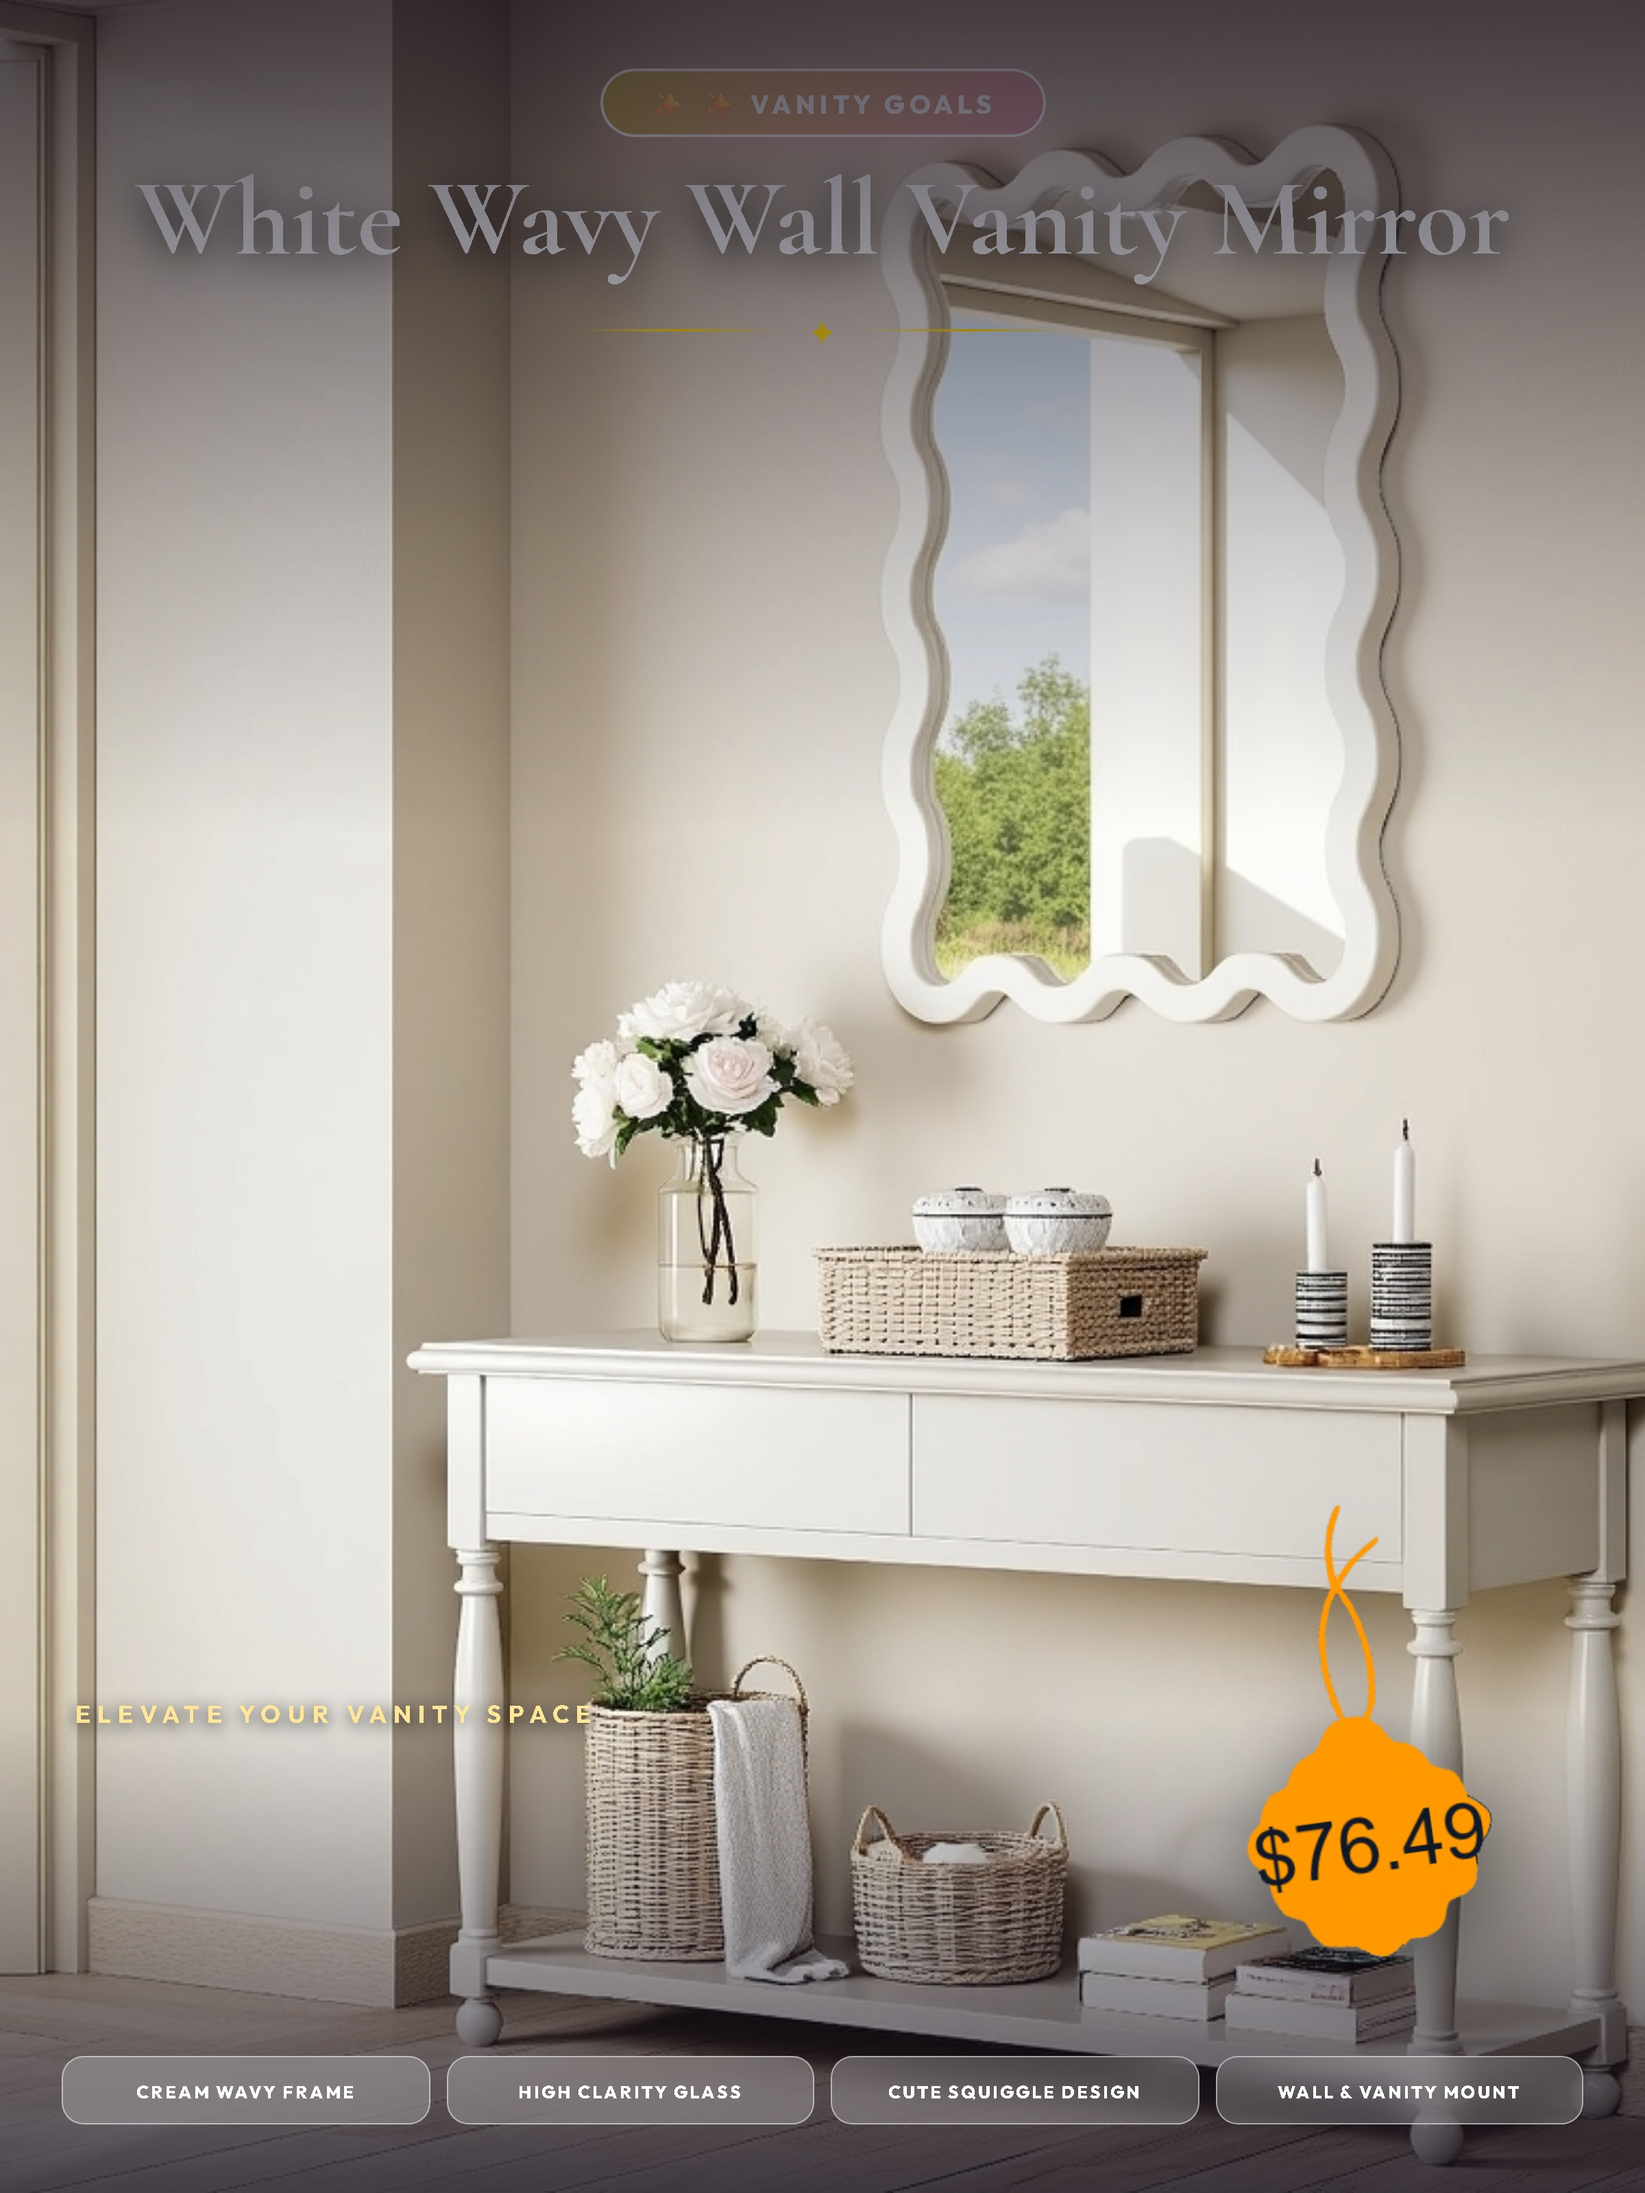
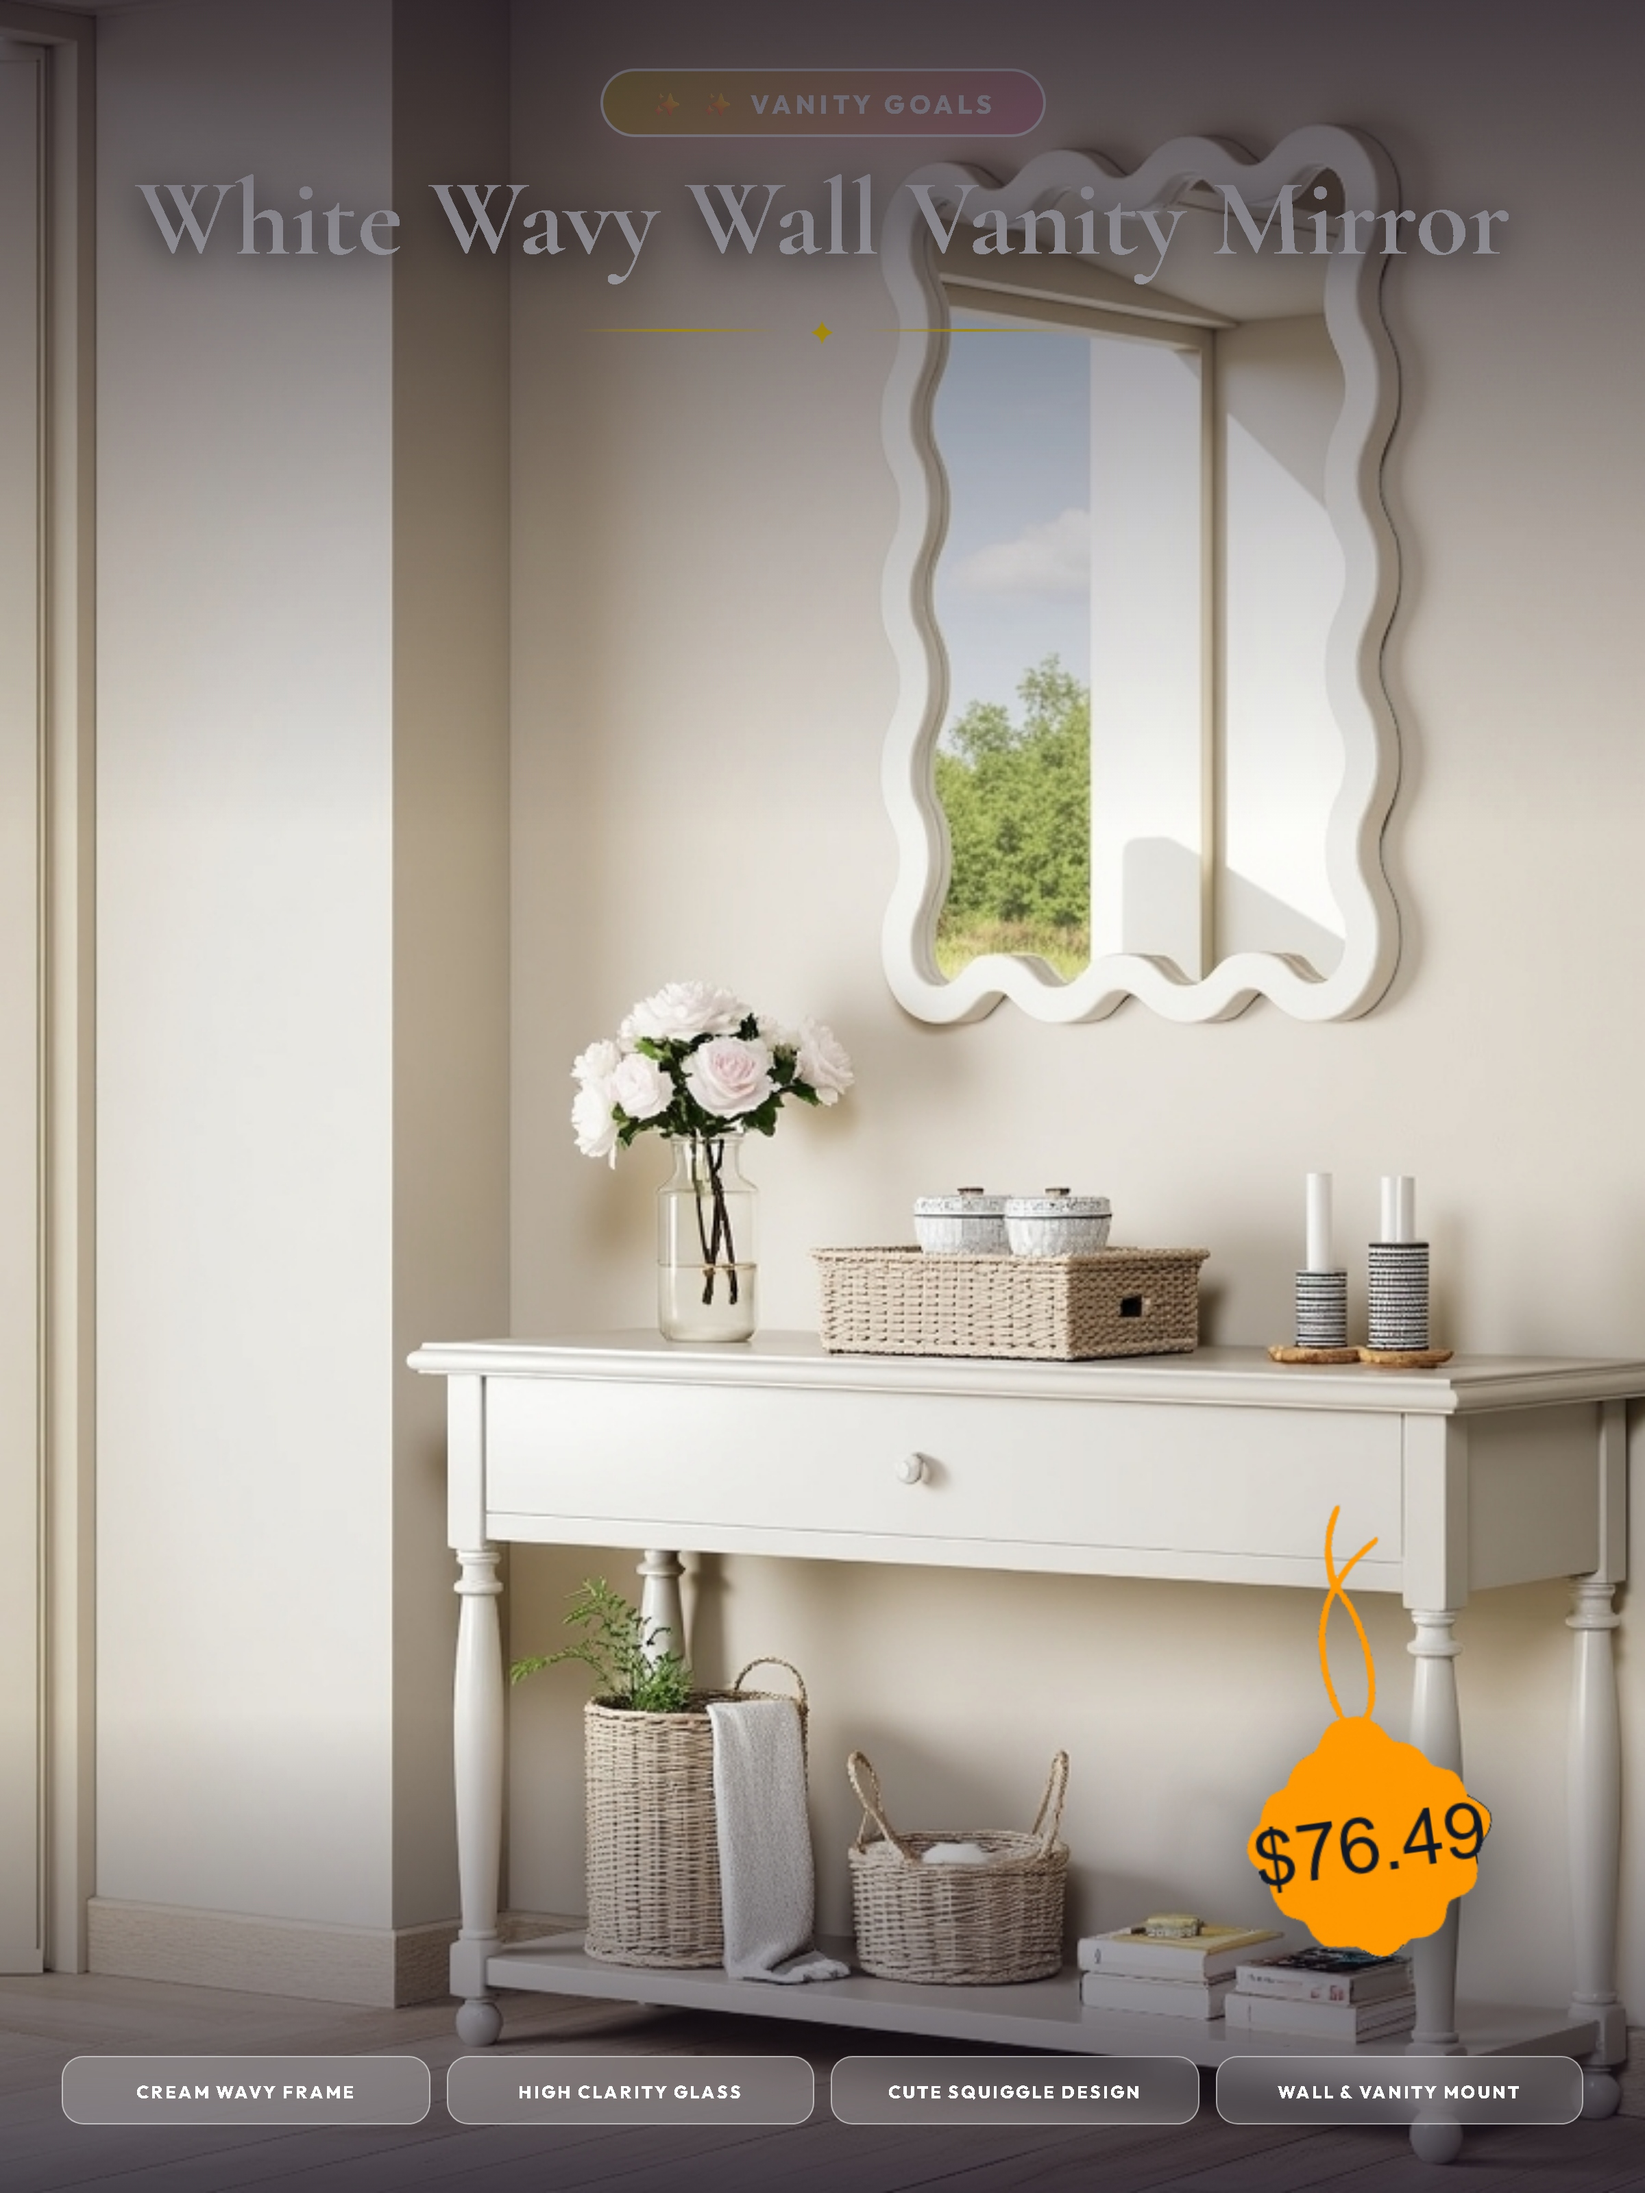
Remove subtitle text ELEVATE YOUR VANITY SPACE for B0FXLYXM32 White Wavy Mirror

diff --git a/index.html b/index.html
@@ -549,7 +549,7 @@
                 <div class="card-img-container">
                     <div class="card-price-tag">$76.49</div>
                     <div class="card-rating">★ 4.8</div>
-                    <img src="./focus_product_B0FXLYXM32_hook.jpg?v=ai_generated_room_v10" alt="White Wavy Wall Vanity Mirror">
+                    <img src="./focus_product_B0FXLYXM32_hook.jpg?v=nosub_wavy_v11" alt="White Wavy Wall Vanity Mirror">
                 </div>
                 <div class="card-content">
                     <h2>White Wavy Wall Vanity Mirror</h2>
